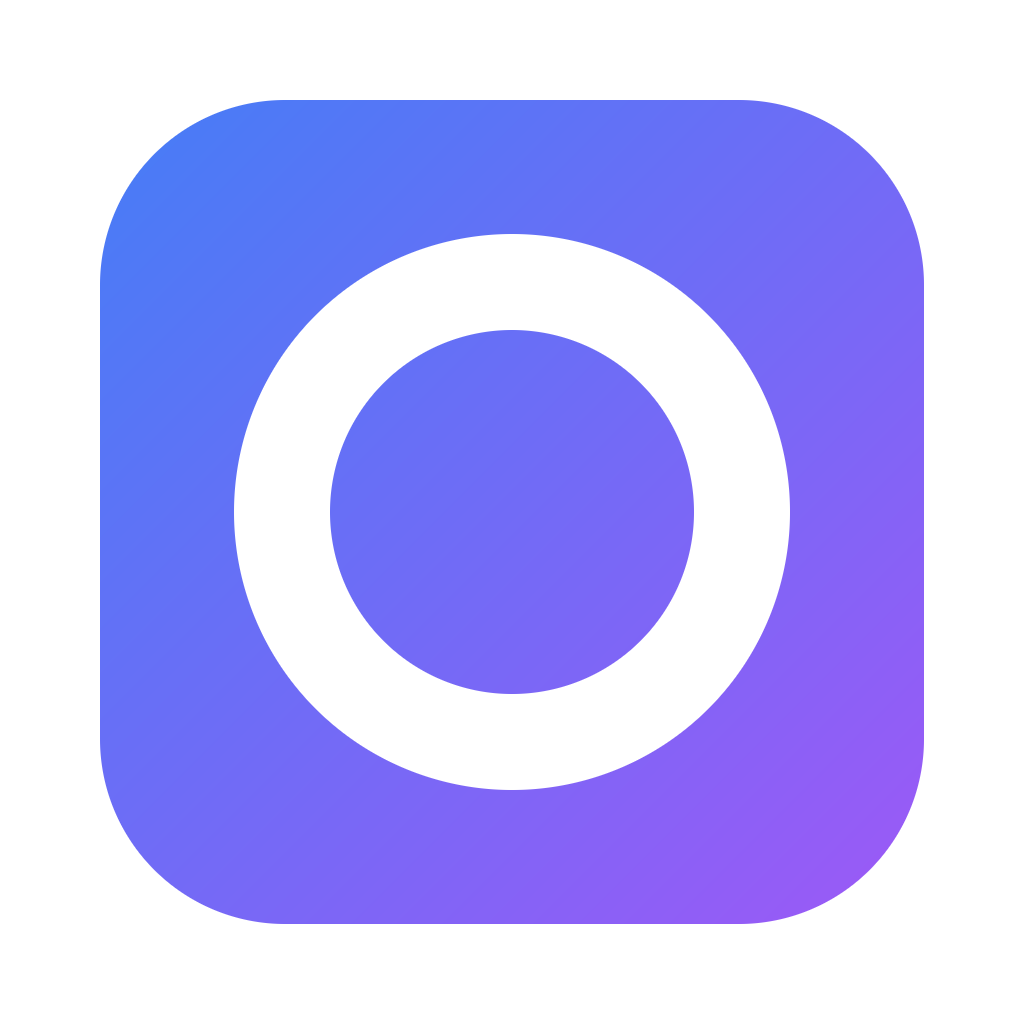
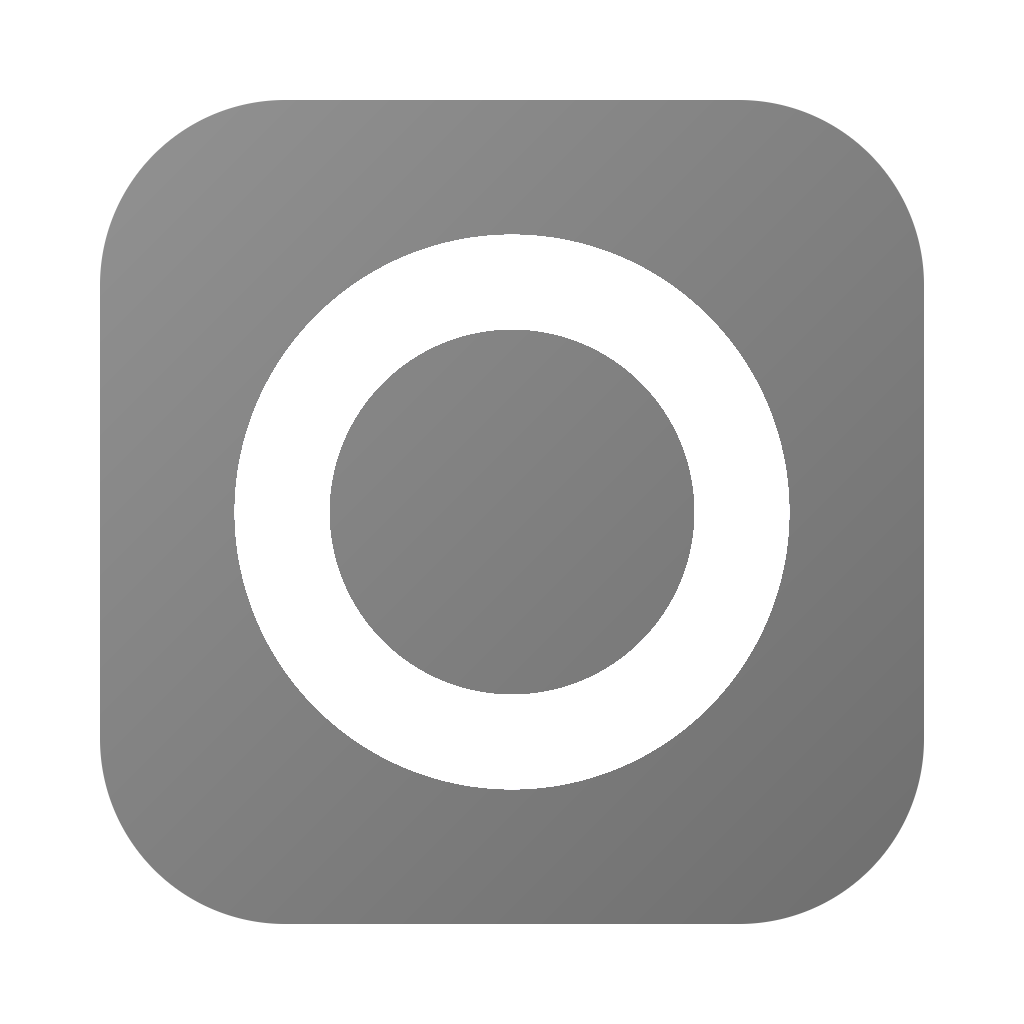
fix(ui): paint the divider grip with the canvas colour
The 8px grip behind each column divider was left transparent, so the
card-coloured window background showed through as a band and made the
1px line look thick. Fill the grip with the canvas colour, and pin it
with a pixel test in both themes on both dividers.

Also switch the title bar to a neutral grey version of the project's
icon file (the white ring is kept), and test that a trashed skill's
right-click menu offers permanent delete in both grid and list views,
both from the name and from the restore button.

Claude-Session: https://claude.ai/code/session_01JDDqmWCn8Ni4RZHC8Ddgis

diff --git a/internal/ui/feedback_test.go b/internal/ui/feedback_test.go
@@ -278,3 +278,60 @@ func TestTitlebarShowsAppIconNotLetter(t *testing.T) {
 		t.Errorf("标题栏左侧应画出图标，发现的非底色像素只有 %d 个", diff)
 	}
 }
+
+// TestDividerBandIsCanvasNotCard 验证分割线的命中区（gripHit 宽）用主栏底色铺满。
+// 卡片色比底色亮一档：命中区若没铺底，就会透出它后面的卡片色，成一道色带，分割线
+// 看起来就粗了。深色与浅色各测一遍，左右两条分割线都测。
+func TestDividerBandIsCanvasNotCard(t *testing.T) {
+	for _, dark := range []bool{true, false} {
+		a, cfg := newTestApp(t)
+		seedDescribed(t, cfg, "alpha", "第一个技能", nil)
+		tt := showApp(a, 1280, 800)
+		tt.SetDark(dark)
+		refresh(a, tt)
+		const y = 700 // 卡片之下，只剩底色
+		check := func(side string, x0 int) {
+			img := tt.Image()
+			for x := x0; x < x0+gripHit; x++ {
+				if got := img.RGBAAt(x, y); near(got, a.pal.card, 2) {
+					t.Errorf("深色=%v 的%s分割线命中区 x=%d 透出了卡片色 %v，应为底色 %v", dark, side, x, got, a.pal.canvas)
+				}
+			}
+		}
+		check("左", int(a.rootsW))
+		click(t, a, tt, "alpha")
+		check("右", 1280-int(a.detailW)-gripHit)
+	}
+}
+
+// TestTrashedMenuHasPermanentDeleteInBothViews 验证回收站里的技能，网格与列表两种排列下，
+// 右键名字与右键「恢复」按钮弹出的菜单都有「永久删除…」。
+func TestTrashedMenuHasPermanentDeleteInBothViews(t *testing.T) {
+	want := []string{"打开文件夹", "在文件夹中显示", "复制路径", "-", "恢复到技能目录", "-", "永久删除…"}
+	for _, list := range []bool{false, true} {
+		a, cfg := newTestApp(t)
+		seedDescribed(t, cfg, "keep", "活着的", nil)
+		seedDescribed(t, cfg, "gone", "回收站里的", nil)
+		if _, err := cfg.Remove("gone"); err != nil {
+			t.Fatal(err)
+		}
+		tt := showApp(a, 1280, 800)
+		a.filter = filterTrashed
+		if list {
+			a.viewMode = store.ViewList
+		}
+		refresh(a, tt)
+		if got := openMenu(t, a, tt, "gone"); !slices.Equal(got, want) {
+			t.Errorf("列表=%v 时右键名字的菜单 = %q，想要 %q", list, got, want)
+		}
+		tt.CloseMenu()
+		if err := tt.RightClick("恢复"); err != nil {
+			t.Fatalf("列表=%v 时点不到「恢复」按钮: %v", list, err)
+		}
+		refresh(a, tt)
+		if got := tt.Menu(); !slices.Equal(got, want) {
+			t.Errorf("列表=%v 时右键「恢复」按钮的菜单 = %q，想要 %q", list, got, want)
+		}
+		tt.CloseMenu()
+	}
+}

diff --git a/internal/ui/view.go b/internal/ui/view.go
@@ -171,9 +171,12 @@ func (a *App) widthLimits(detailShown bool) (rootsHi, detailHi float32) {
 // 拖动，悬停或拖动时线变成强调色。size 指向它调整的那一栏的宽度；dir 为 +1
 // 表示那一栏在分割线左侧（向右拖变宽），-1 表示在右侧（向左拖变宽）。拖动量经
 // dragWidth 夹进 [lo, hi]。宽度变了就请求重绘。
+//
+// 命中区用主栏底色铺满：不铺的话，它会透出后面的窗口底色（深色下是卡片色），
+// 变成一道 gripHit 宽的色带，分割线看起来就粗了。
 func (a *App) viewGrip(c *myui.Context, size *float32, dir float32, lo, hi float32) {
 	t := c.Theme()
-	g := myui.Box(c).Width(gripHit).FillHeight().Shrink(0).Cursor(myui.CursorResizeEW)
+	g := myui.Box(c).Width(gripHit).FillHeight().Shrink(0).Background(a.pal.canvas).Cursor(myui.CursorResizeEW)
 	dx, _, held := g.Dragged()
 	if held && dx != 0 {
 		if next := dragWidth(*size, dir*dx, lo, hi); next != *size {
